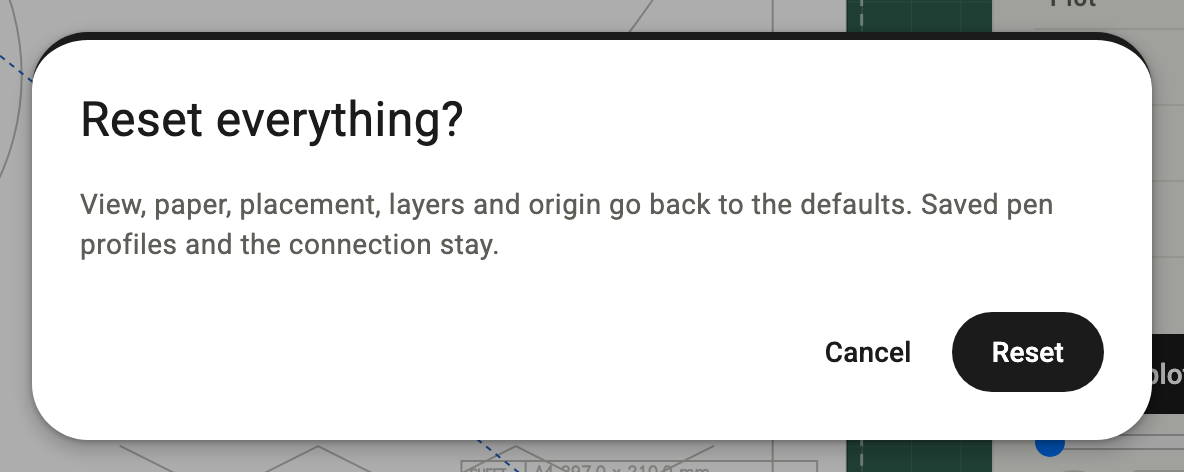
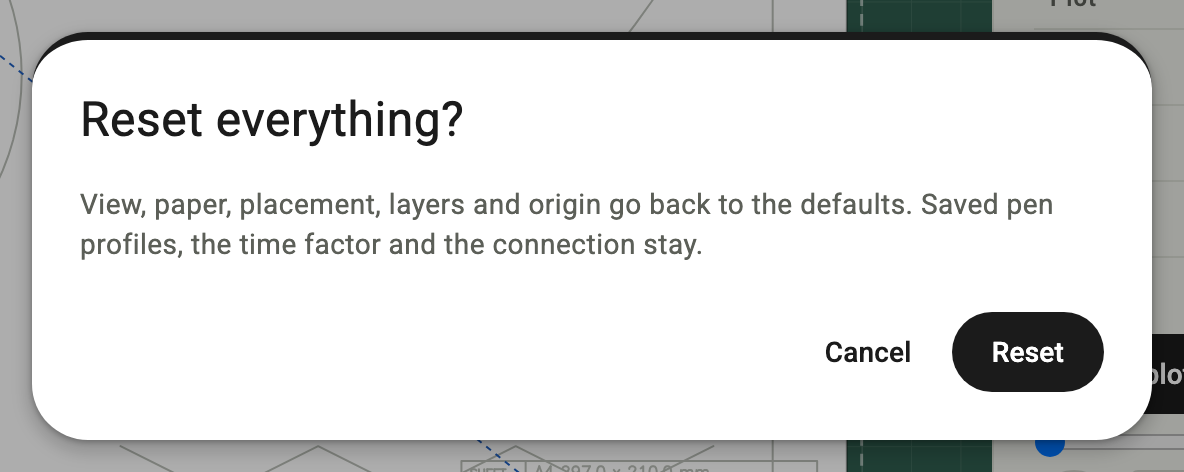
Reset dialog: the time factor stays too

Changed region(s): [[0.1562, 0.5042, 0.5938, 0.5636]]

diff --git a/extensions/idraw_web.html b/extensions/idraw_web.html
@@ -218,7 +218,7 @@ dialog.dialog{border:0;border-top:4px solid var(--md-primary);max-height:80vh;ov
 </dialog>
 <dialog id="resetDlg" class="dialog">
   <h3>Reset everything?</h3>
-  <p>View, paper, placement, layers and origin go back to the defaults. Saved pen profiles and the connection stay.</p>
+  <p>View, paper, placement, layers and origin go back to the defaults. Saved pen profiles, the time factor and the connection stay.</p>
   <div class="actions"><button class="btn text" id="resetCancel">Cancel</button><button class="btn filled" id="resetGo">Reset</button></div>
 </dialog>
 <main class="split">
